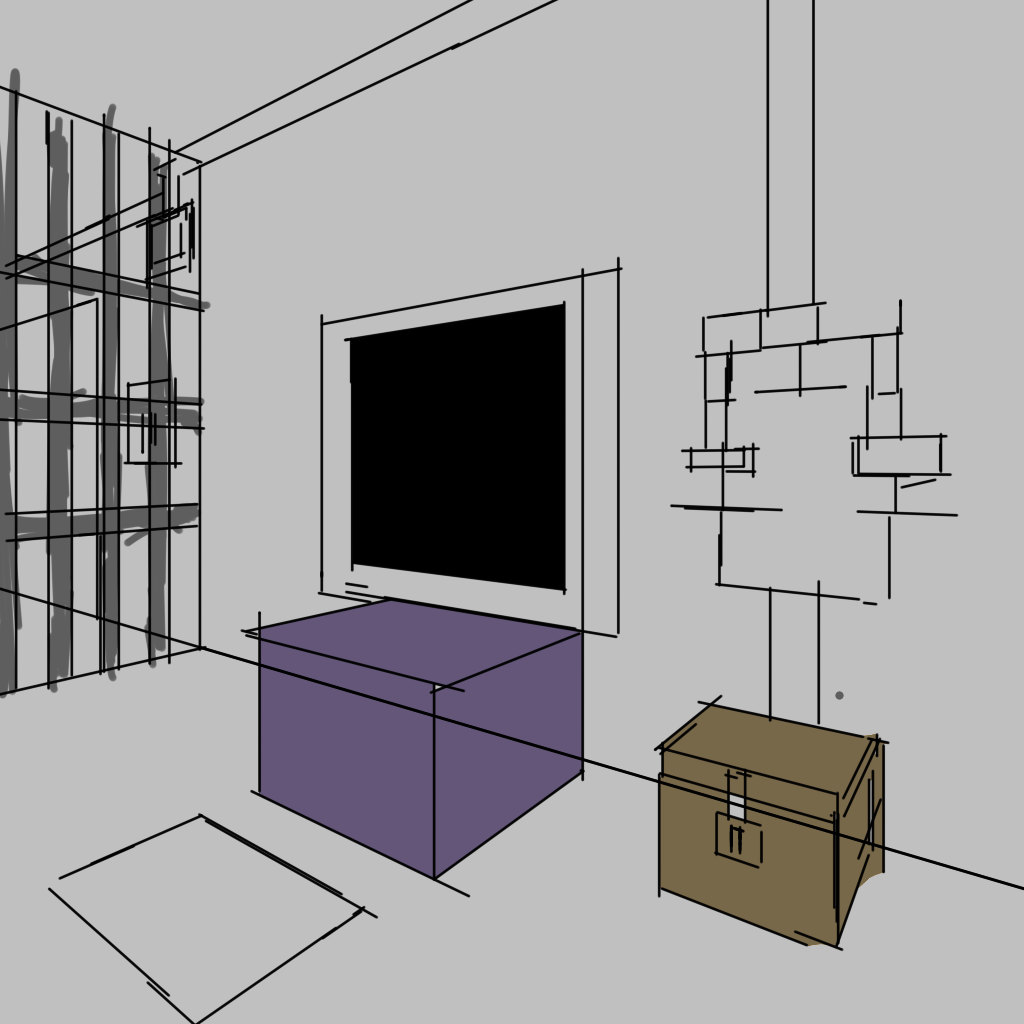
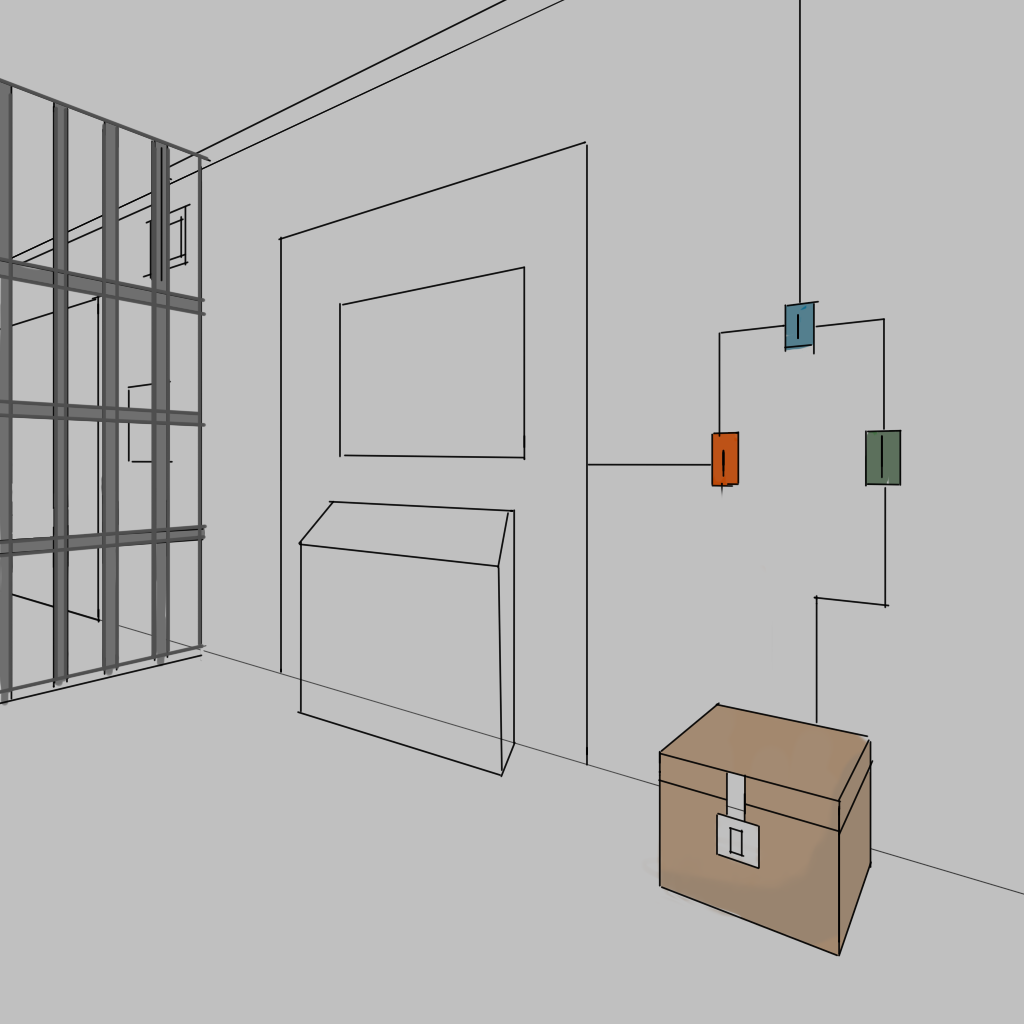
Inner cell (#91)
* added helper

* added going in door

* images improved

diff --git a/src/components/game/index.js b/src/components/game/index.js
@@ -29,12 +29,14 @@ export default function Game(props) {
   let corner = new PIXI.Container();
   let roomBack = new PIXI.Container();
   let frontDoor = new PIXI.Container();
+  let innerCell = new PIXI.Container();
 
   const roomParts = [
     PIXI.Sprite.from(require("../../assets/rooms/Corner.png")),
     PIXI.Sprite.from(require("../../assets/rooms/Roomback.png")),
     PIXI.Sprite.from(require("../../assets/rooms/Frontdoor.png")),
     PIXI.Sprite.from(require("../../assets/rooms/RoombackJDO.png")),
+    PIXI.Sprite.from(require("../../assets/rooms/innercell.png"))
   ];
 
   // roomParts.map((part) => {
@@ -48,6 +50,7 @@ export default function Game(props) {
   corner.addChild(roomParts[0]);
   roomBack.addChild(roomParts[3], roomParts[1]);
   frontDoor.addChild(roomParts[2]);
+  innerCell.addChild(roomParts[4]);
 
   roomParts.map((part) => {
     part.width = 768;
@@ -88,7 +91,16 @@ export default function Game(props) {
     dispatch({ type: "OPEN_DOOR" });
     console.log("open_Door");
     roomBack.children[1].visible = false;
+    roomBack.children[3].off("pointerdown", closedDoor);
+    roomBack.children[3].on("pointerdown", goToInner);
   };
+
+  let goToInner = () => {
+    dispatch({type: "GO_IN_CELLDOOR"});
+  };
+
+
+
   let drawerSheet = {};
   let arrowSheet = {};
   let pcSheet = {};
@@ -127,12 +139,13 @@ export default function Game(props) {
       roomBack.addChild(objects.idCard1, objects.door);
       frontDoor.addChild(objects.key);
 
-      console.log(roomBack);
       corner.visible = true;
+      innerCell.visible = false;
       roomBack.visible = false;
       frontDoor.visible = false;
       // Adding Screens and Interface to Stage
-      props.app.stage.addChild(corner, roomBack, frontDoor, left, right);
+      props.app.stage.addChild(corner, roomBack, frontDoor,innerCell);
+      props.app.stage.addChild(left, right);
     }
   }
 
@@ -140,6 +153,8 @@ export default function Game(props) {
     props.app.stage.children[0].visible = false;
     props.app.stage.children[1].visible = false;
     props.app.stage.children[2].visible = false;
+    props.app.stage.children[3].visible = false;
+
 
     switch (assetReducer.partNumber) {
       case 1:
@@ -147,6 +162,9 @@ export default function Game(props) {
         break;
       case 2:
         props.app.stage.children[2].visible = true;
+        break;
+      case 3: 
+      props.app.stage.children[3].visible = true;
         break;
       case 0:
       default:

diff --git a/src/store/appreducer.js b/src/store/appreducer.js
@@ -53,6 +53,11 @@ function appReducer(state = initialState, action) {
                pictureID: "key"
         },
       };
+      case "GO_IN_CELLDOOR":
+        return {
+          ...state,
+          partNumber: 3
+        };
     case "LOADED":
       return {
         ...state,
